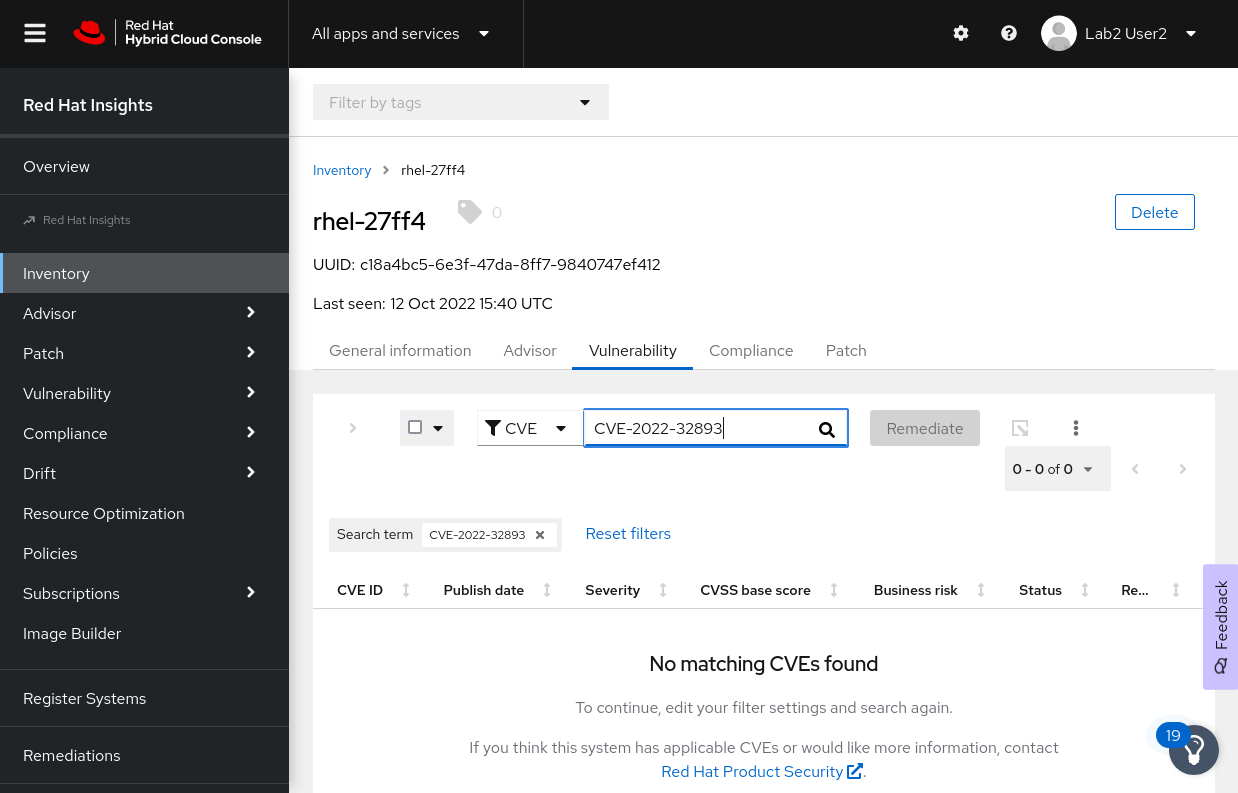
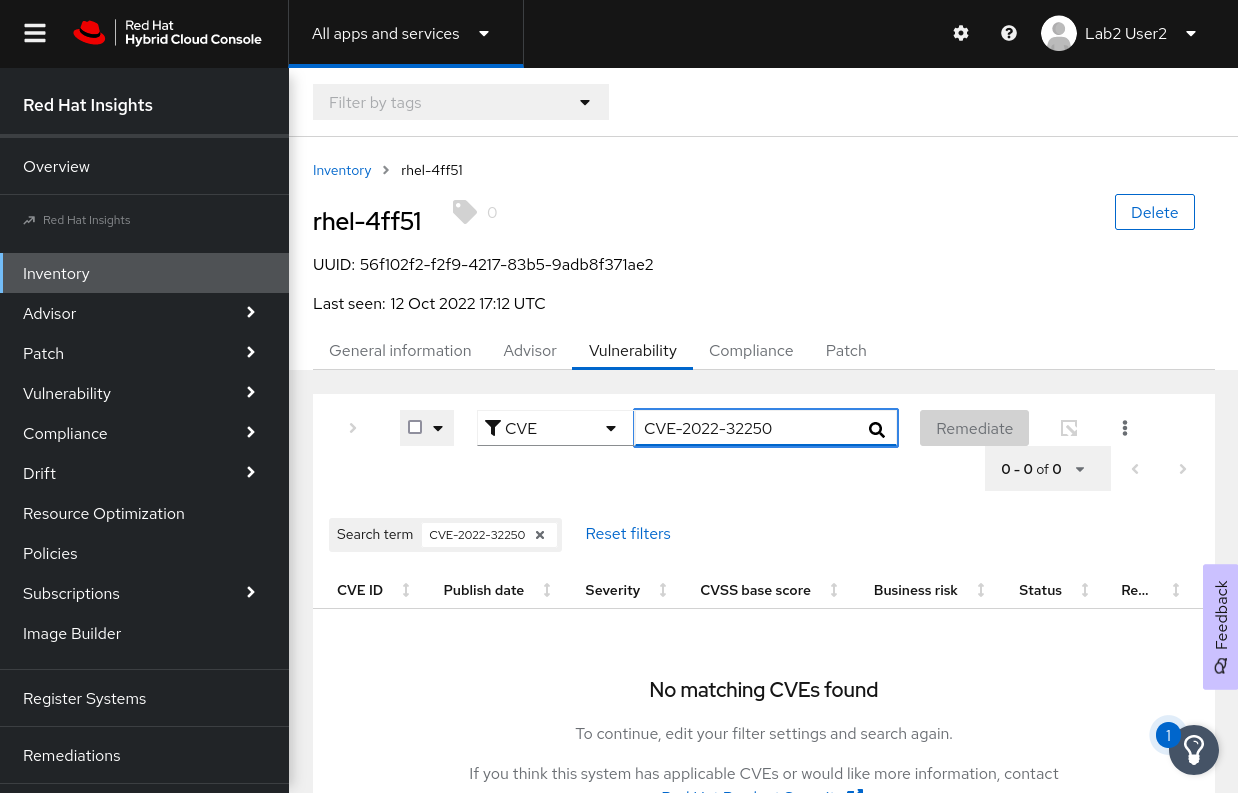
Updating host and cve id,

diff --git a/insights-vulnerability/04-step4/assignment.md b/insights-vulnerability/04-step4/assignment.md
@@ -30,44 +30,41 @@ From this list of vulnerabilities, you can create a remediation playbook for any
 For now, let's just update the packages related to one of the CVE's in the list.  Keep your insights web browser open, and in the console for our host issue the following command.
 
 ```
-dnf update --cve CVE-2022-32893
+dnf update --cve CVE-2022-32250
 ```
 
 <pre type=file>
 Updating Subscription Management repositories.
-Last metadata expiration check: 0:09:37 ago on Wed 12 Oct 2022 04:41:25 PM UTC.
+Last metadata expiration check: 0:19:01 ago on Wed 12 Oct 2022 05:08:14 PM UTC.
 Dependencies resolved.
 ==================================================================================================================================================================================================================================
- Package                                              Architecture                                Version                                             Repository                                                             Size
+ Package                                              Architecture                              Version                                                    Repository                                                        Size
 ==================================================================================================================================================================================================================================
+Installing:
+ kernel                                               x86_64                                    5.14.0-70.26.1.el9_0                                       rhel-9-for-x86_64-baseos-rpms                                    626 k
 Upgrading:
- webkit2gtk3-jsc                                      x86_64                                      2.36.7-1.el9_0                                      rhel-9-for-x86_64-appstream-rpms                                      6.2 M
+ kernel-tools                                         x86_64                                    5.14.0-70.26.1.el9_0                                       rhel-9-for-x86_64-baseos-rpms                                    855 k
+ kernel-tools-libs                                    x86_64                                    5.14.0-70.26.1.el9_0                                       rhel-9-for-x86_64-baseos-rpms                                    636 k
+ python3-perf                                         x86_64                                    5.14.0-70.26.1.el9_0                                       rhel-9-for-x86_64-baseos-rpms                                    756 k
+Installing dependencies:
+ kernel-core                                          x86_64                                    5.14.0-70.26.1.el9_0                                       rhel-9-for-x86_64-baseos-rpms                                     34 M
+ kernel-modules                                       x86_64                                    5.14.0-70.26.1.el9_0                                       rhel-9-for-x86_64-baseos-rpms                                     21 M
 
 Transaction Summary
 ==================================================================================================================================================================================================================================
-Upgrade  1 Package
+Install  3 Packages
+Upgrade  3 Packages
 
-Total download size: 6.2 M
+Total download size: 58 M
 Is this ok [y/N]: y
-Downloading Packages:
-webkit2gtk3-jsc-2.36.7-1.el9_0.x86_64.rpm                                                                                                                                                         4.8 MB/s | 6.2 MB     00:01    
-----------------------------------------------------------------------------------------------------------------------------------------------------------------------------------------------------------------------------------
-Total                                                                                                                                                                                             4.8 MB/s | 6.2 MB     00:01     
-Running transaction check
-Transaction check succeeded.
-Running transaction test
-Transaction test succeeded.
-Running transaction
-  Preparing        :                                                                                                                                                                                                          1/1 
-  Upgrading        : webkit2gtk3-jsc-2.36.7-1.el9_0.x86_64                                                                                                                                                                    1/2 
-  Cleanup          : webkit2gtk3-jsc-2.34.6-1.el9.x86_64                                                                                                                                                                      2/2 
-  Running scriptlet: webkit2gtk3-jsc-2.34.6-1.el9.x86_64                                                                                                                                                                      2/2 
-  Verifying        : webkit2gtk3-jsc-2.36.7-1.el9_0.x86_64                                                                                                                                                                    1/2 
-  Verifying        : webkit2gtk3-jsc-2.34.6-1.el9.x86_64                                                                                                                                                                      2/2 
-Installed products updated.
+
+(truncated)
+
 
 Upgraded:
-  webkit2gtk3-jsc-2.36.7-1.el9_0.x86_64                                                                                                                                                                                           
+  kernel-tools-5.14.0-70.26.1.el9_0.x86_64                                 kernel-tools-libs-5.14.0-70.26.1.el9_0.x86_64                                 python3-perf-5.14.0-70.26.1.el9_0.x86_64                                
+Installed:
+  kernel-5.14.0-70.26.1.el9_0.x86_64                                    kernel-core-5.14.0-70.26.1.el9_0.x86_64                                    kernel-modules-5.14.0-70.26.1.el9_0.x86_64                                   
 
 Complete!
 </pre>

diff --git a/insights-vulnerability/01-step1/assignment.md b/insights-vulnerability/01-step1/assignment.md
@@ -28,7 +28,7 @@ timelimit: 900
 ---
 # Gathering system information
 
-This lab system is already registered with Red Hat's [https://cloud.redhat.com](Hybrid Cloud Console) using the Red Hat Cloud Connector `rhc`.  We can view its registration information with the following command.
+This lab system is already registered with Red Hat's [Hybrid Cloud Console](https://cloud.redhat.com) using the Red Hat Cloud Connector `rhc`.  We can view its registration information with the following command.
 
 ```
 rhc status

diff --git a/insights-vulnerability/02-step2/assignment.md b/insights-vulnerability/02-step2/assignment.md
@@ -18,7 +18,7 @@ timelimit: 900
 >_NOTE:_ To make the inline images larger, expand this window.
 ![Menu Slider](../assets/slider.png)
 
-There is a tab open inside of the lab environment for the Red Hat Hybrid Cloud Console, click on that, and you will be brought to the login page. 
+There is a tab open inside of the lab environment for the Red Hat Hybrid Cloud Console, click on that, and you will be brought to the login page.
 
 >_NOTE:_ This will open an additional browser window or tab.
 
